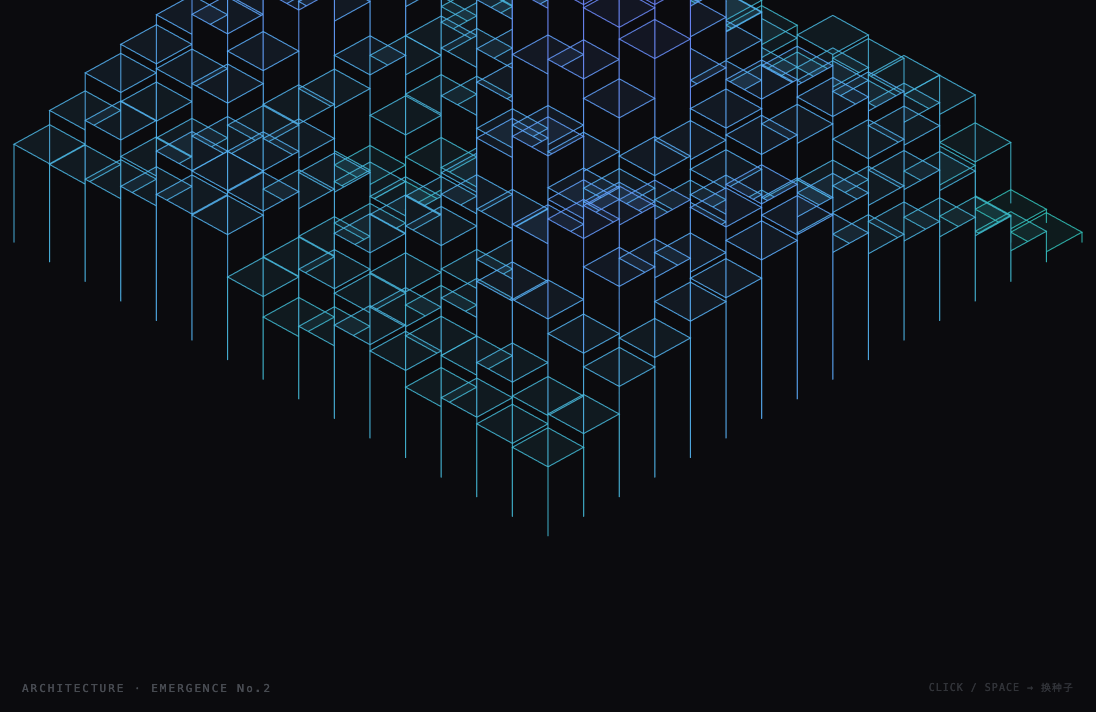
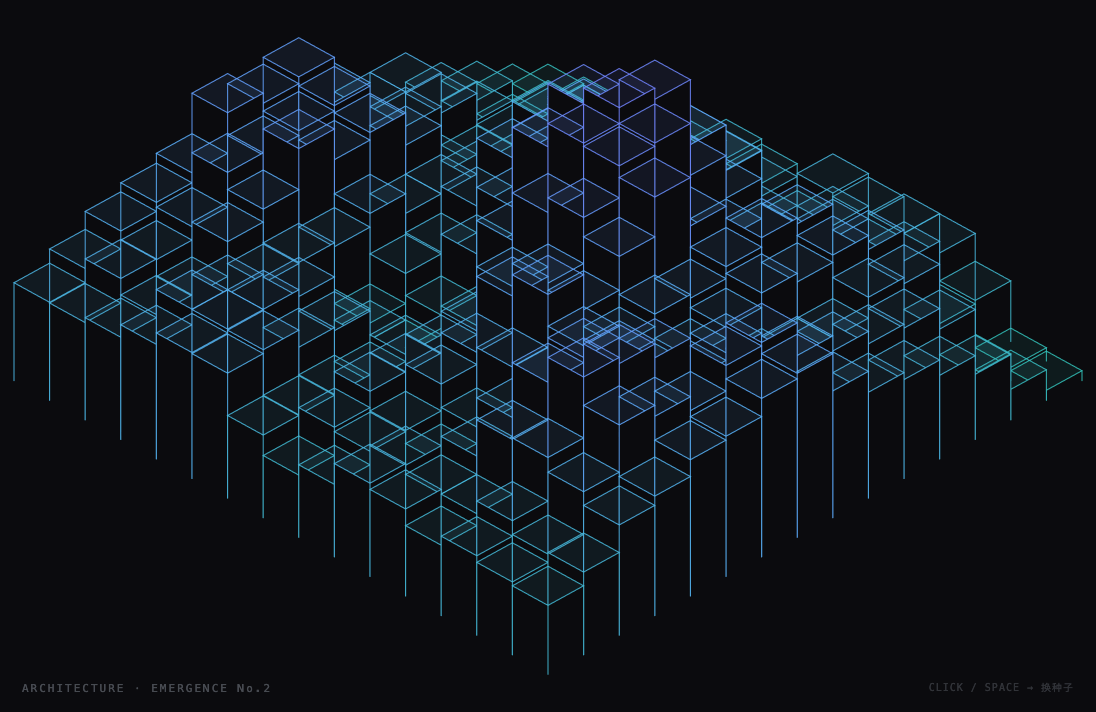
fix: vertically center No.2 architecture geometry (was top-heavy)
Compute structure's vertical bbox and set originY to canvas mid-line
instead of fixed 0.34. Refresh thumbnail.

Changed region(s): [[0.031, 0.0, 0.9927, 0.8652], [0.0, 0.1854, 0.031, 0.2163]]

diff --git a/02-architecture.html b/02-architecture.html
@@ -53,9 +53,7 @@ function draw() {
   const tileH = tileW * 0.55;
   const maxH = minDim * 0.85;
   const originX = width / 2;
-  const originY = height * 0.34;
   const half = (GRID - 1) / 2;
-  const isoP = (nx, ny, z) => [originX + (nx - ny) * tileW, originY + (nx + ny) * tileH - z];
 
   // 每格塔高由噪声决定，径向衰减 → 中间高四周低，成簇
   const cells = [];
@@ -66,6 +64,19 @@ function draw() {
     h *= constrain(1.2 - dist * 0.6, 0, 1.2);
     cells.push({ nx, ny, h, key: gx + gy });
   }
+
+  // 测几何垂直范围（不含 originY），据此把整体居中到画面中线
+  let minY = 1e9, maxY = -1e9;
+  for (const c of cells) {
+    if (c.h <= 6) continue;
+    const baseY = (c.nx + c.ny) * tileH;   // z=0 底
+    const topY = baseY - c.h;              // z=h 顶
+    if (topY - tileH < minY) minY = topY - tileH;
+    if (baseY + tileH > maxY) maxY = baseY + tileH;
+  }
+  const originY = height / 2 - (minY + maxY) / 2;
+  const isoP = (nx, ny, z) => [originX + (nx - ny) * tileW, originY + (nx + ny) * tileH - z];
+
   // 后→前绘制，前塔遮挡后塔
   cells.sort((a, b) => a.key - b.key);
   for (const c of cells) if (c.h > 6) drawTower(c.nx, c.ny, c.h, maxH, isoP);
